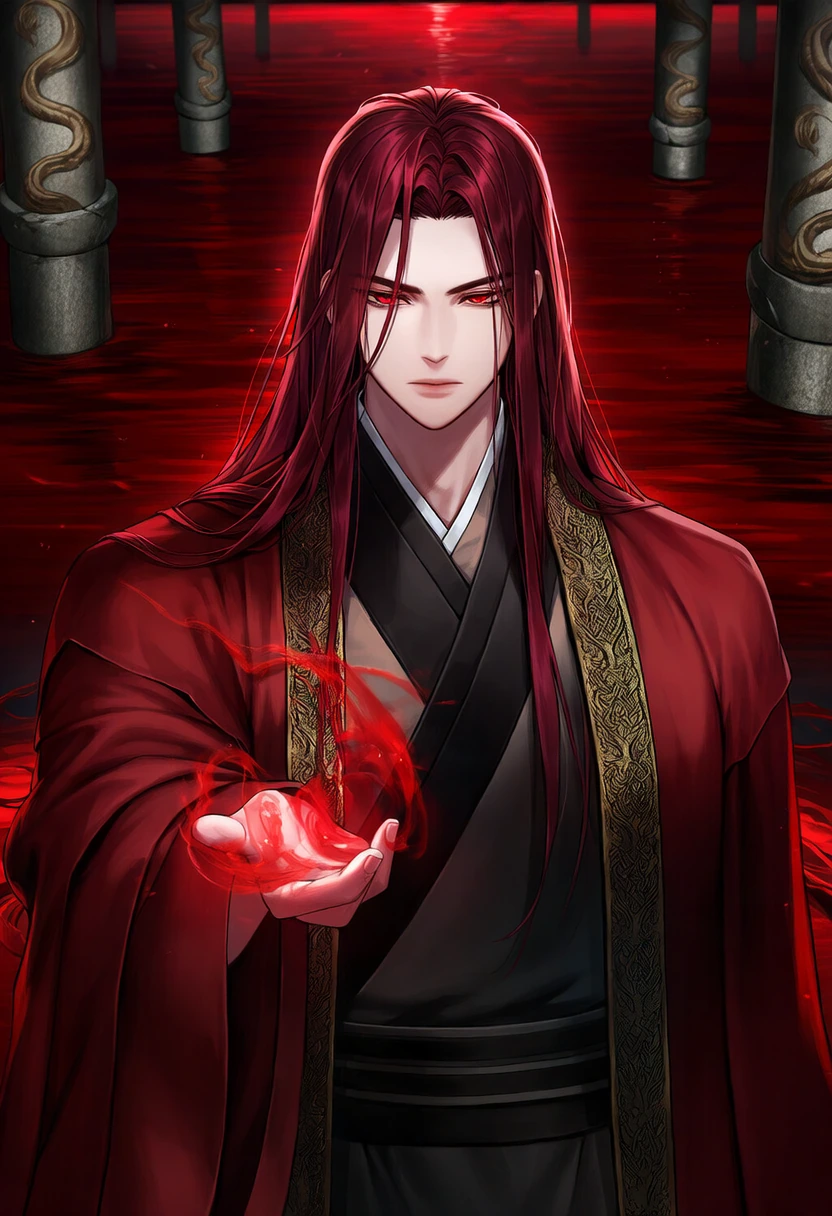
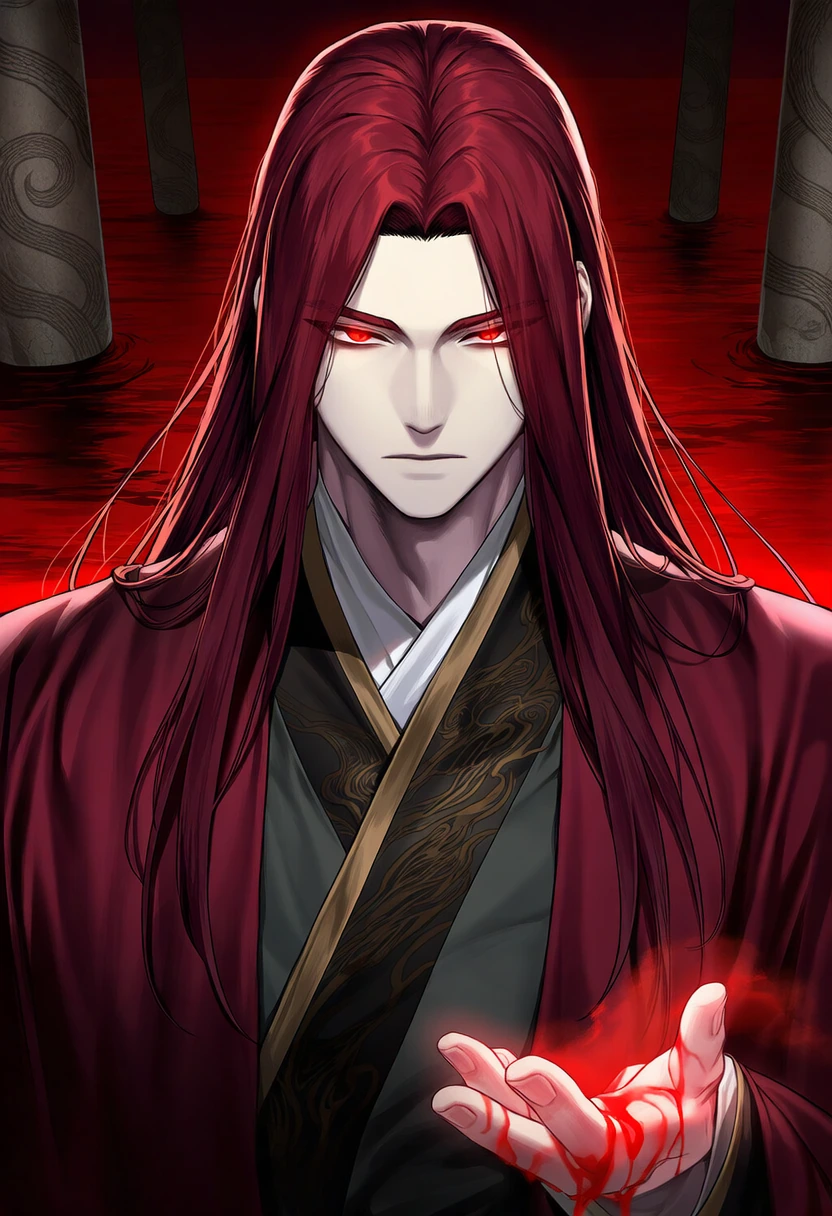
천마와 혈마 다시 골라 교체
Claude-Session: https://claude.ai/code/session_01CwTFys7sMXXhord36DatFd

diff --git a/art/인물.py b/art/인물.py
@@ -246,7 +246,7 @@ PICK = {
     "외전홍수_남": 9103,
     "외전홍수_녀": 9103,
     "외전흑사_남": 7027,
-    "천마": 9123,
+    "천마": 9146,
     "초출사부": 9109,
     "표국표사_남": 9104,
     "표국표사_녀": 9104,
@@ -254,7 +254,7 @@ PICK = {
     "하북팽가_녀": 9104,
     "하오문_남": 7021,
     "하오문_녀": 7020,
-    "혈마": 9133,
+    "혈마": 9144,
     "혈불사도명": 9112,
     "혈지생환_남": 9018,
     "혈지생환_녀": 9016,
